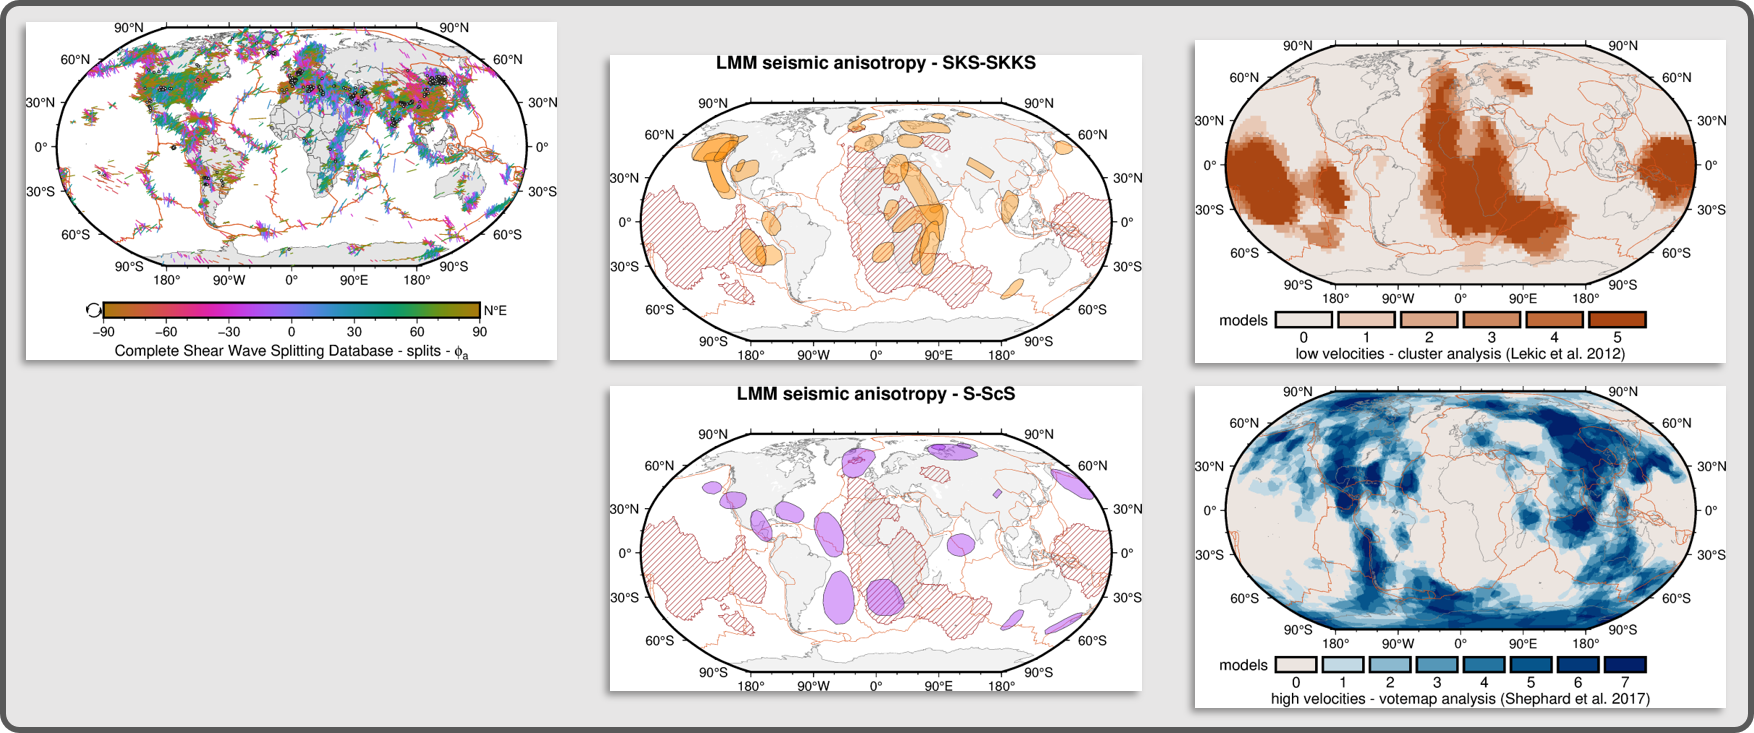
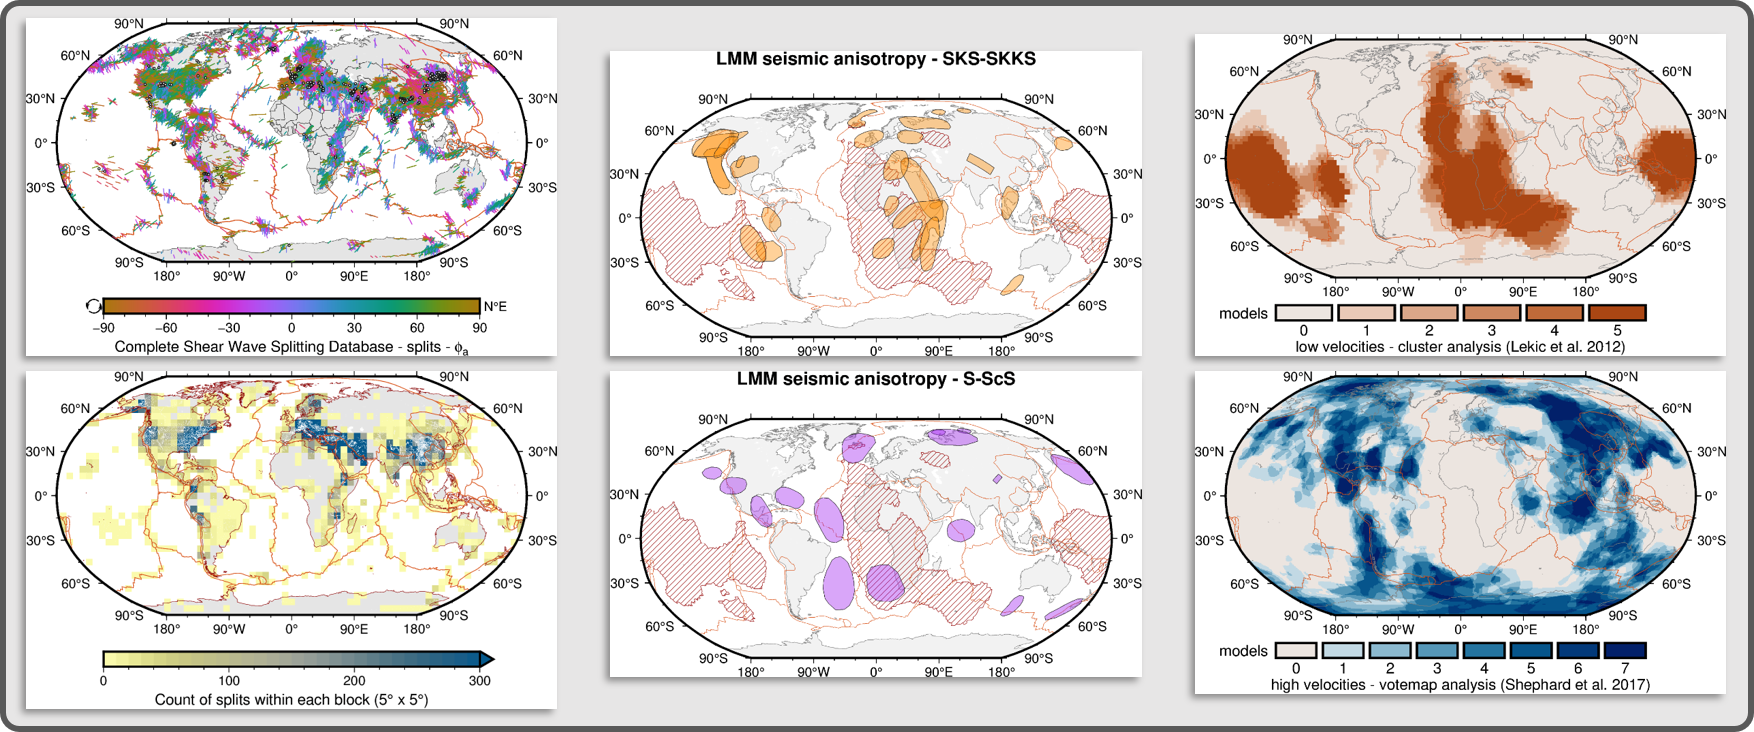
006_tomographies_databases: Add first version of "map_db_sws_spatial_distribution" (#15)

diff --git a/006_tomographies_databases/01_db_sws/map_db_sws_spatial_distribution.py b/006_tomographies_databases/01_db_sws/map_db_sws_spatial_distribution.py
@@ -1,0 +1,135 @@
+# #############################################################################
+# Shear wave splitting database
+# Barruol, G., Wuestefeld, A., & Bokelmann, G. (2009). SKS-Splitting-database.
+# Université de Montpellier, Laboratoire Géosciences.
+# https://doi.org/10.18715/sks_splitting_database
+#
+# Spatial distribution of splits (i.e. nulls are not considered)
+# -----------------------------------------------------------------------------
+# Author: Yvonne Fröhlich
+# ORCID: https://orcid.org/0000-0002-8566-0619
+# GitHub: https://github.com/yvonnefroehlich/gmt-pygmt-plotting
+# -----------------------------------------------------------------------------
+# - Created: 2024/05/10
+#   PyGMT v0.12.0 -> https://www.pygmt.org/
+#   GMT 6.4.0 / 6.5.0 -> https://www.generic-mapping-tools.org/
+# #############################################################################
+
+
+import pandas as pd
+import pygmt as gmt
+
+# %%
+# -----------------------------------------------------------------------------
+# General stuff
+# -----------------------------------------------------------------------------
+# Paths
+path_in = "01_in_data"
+path_out = "02_out_figs"
+
+# Colors
+color_platebound = "216.750/82.875/24.990"
+color_land = "gray90"
+color_shorelines = "darkred"
+color_split = "white"
+
+# Region and projection
+region_used = "d"  # global with central longitude at 0° E, use "g" for 180° E
+projection_used = "N11c"  # Robinson projection
+
+
+# %%
+# -----------------------------------------------------------------------------
+# Load SWSM data
+# -----------------------------------------------------------------------------
+file_swsm = "sws_db_swsm_barruol_et_al_20231005_COR_GMT_phiGMT4j.txt"
+df_swsm_raw = pd.read_csv(f"{path_in}/{file_swsm}", delimiter=",")
+df_swsm_split = df_swsm_raw[df_swsm_raw.obs == "Split"]
+df_swsm_null = df_swsm_raw[df_swsm_raw.obs == "Null"]
+
+
+# %%
+# -----------------------------------------------------------------------------
+# Bin data
+# -----------------------------------------------------------------------------
+# Feel free to adjust the blocks size for your needs
+for spacing_used in range(5, 21, 5):  # size of blocks in degrees
+    # Calculate counts of splits within each block
+    df_swsm_split_bin = gmt.blockmean(
+        data=df_swsm_split[["Longitude", "Latitude", "phi_SL"]],
+        region=region_used,
+        spacing=spacing_used,
+        summary="n",  # Counts within each block
+    )
+
+    # Convert to GMT-ready grid
+    grd_swsm_split_bin = gmt.xyz2grd(
+        data=df_swsm_split_bin,
+        region=region_used,
+        spacing=spacing_used,
+    )
+
+
+# %%
+# -----------------------------------------------------------------------------
+# Make geographic map
+# -----------------------------------------------------------------------------
+    fig = gmt.Figure()
+    gmt.config(FONT_LABEL="10p", MAP_GRID_PEN_PRIMARY="0.01p,gray50")
+
+    fig.coast(
+        region=region_used,
+        projection=projection_used,
+        land=color_land,
+        frame=["WSnE", "xa90f30", "ya30f15"],
+    )
+
+# -----------------------------------------------------------------------------
+    # Counts of splits within in each block
+    # Creat colormap
+    gmt.makecpt(series=[0, 300, 10], cmap="nuuk", reverse=True)
+
+    # Plot grid
+    fig.grdimage(
+        grid=grd_swsm_split_bin,
+        region=region_used,
+        cmap=True,
+        nan_transparent=True,
+    )
+
+    # Add colorbar
+    fig.colorbar(
+        frame=f"x+lCount of splits within each block ({spacing_used}@. x {spacing_used}@.)",
+        position="+ef0.3c",
+    )
+
+# -----------------------------------------------------------------------------
+    # Plot data points for splits
+    fig.plot(
+        data=df_swsm_split[["Longitude", "Latitude"]],
+        style="p0.1p",
+        fill=color_split,
+    )
+
+# -----------------------------------------------------------------------------
+    # Add Shorelines
+    fig.coast(shorelines=f"1/0.15p,{color_shorelines}")
+
+    # Plot plate boundaries
+    fig.plot(
+        data=f"{path_in}/plate_boundaries_Bird_2003.txt",
+        pen=f"0.3p,{color_platebound}",
+    )
+
+    # Add frame
+    fig.basemap(frame=0)
+
+# -----------------------------------------------------------------------------
+    # Show and save figure
+    fig.show()
+
+    fig_name = f"{path_out}/db_sws_spatial_distribution_splits_spacing{spacing_used}deg"
+    # for ext in ["png"]:  # , "pdf", "eps"]:
+    #     fig.savefig(fname=f"{fig_name}.{ext}")
+
+    print(fig_name)

diff --git a/006_tomographies_databases/01_db_sws/map_db_sws_splitting_parameters.py b/006_tomographies_databases/01_db_sws/map_db_sws_splitting_parameters.py
@@ -3,6 +3,9 @@
 # Barruol, G., Wuestefeld, A., & Bokelmann, G. (2009). SKS-Splitting-database.
 # Université de Montpellier, Laboratoire Géosciences.
 # https://doi.org/10.18715/sks_splitting_database
+#
+# Splitting parameters of splits as orientated and color-coded (fast
+# polarization direction phi) length-scaled (delay time dt) bars
 # -----------------------------------------------------------------------------
 # Author: Yvonne Fröhlich
 # ORCID: https://orcid.org/0000-0002-8566-0619
@@ -78,8 +81,8 @@ fig.plot(
 )
 
 # -----------------------------------------------------------------------------
-# Plot splitting parameter as color-coded and orientated length-scaled bars
-# according to phi and dt and nulls as white-filled black-outlined circles
+# Plot splitting parameter of splits as orientated and color-coded length-scaled
+# bars according to phi and dt; nulls as white-filled black-outlined circles
 
 # splits
 fig.plot(
@@ -106,7 +109,7 @@ fig.colorbar(cmap=True, frame=[f"xa30f10+l{cb_label}", "y+lN@.E"])
 # Show and save figure
 fig.show()
 
-fig_name = f"{path_out}/db_sws_splittingparameter"
+fig_name = f"{path_out}/db_sws_splitting_parameters"
 # for ext in ["png"]:  # , "pdf", "eps"]:
 #     fig.savefig(fname=f"{fig_name}.{ext}")
 
